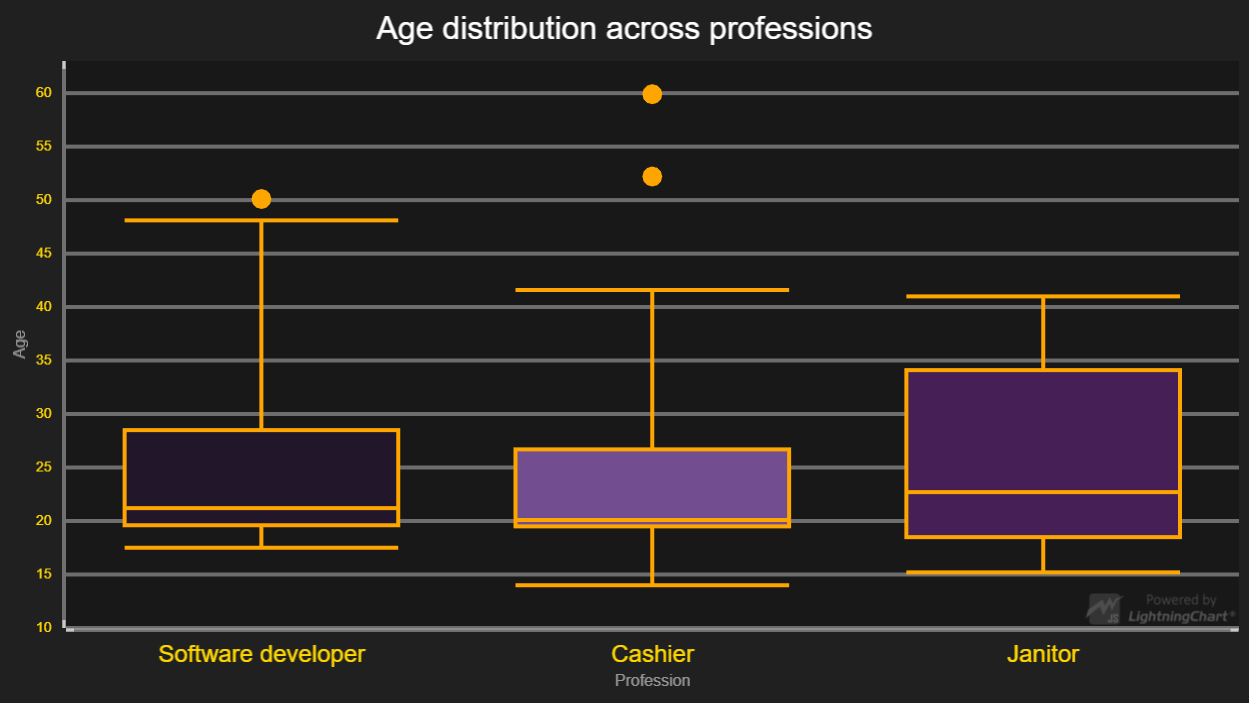
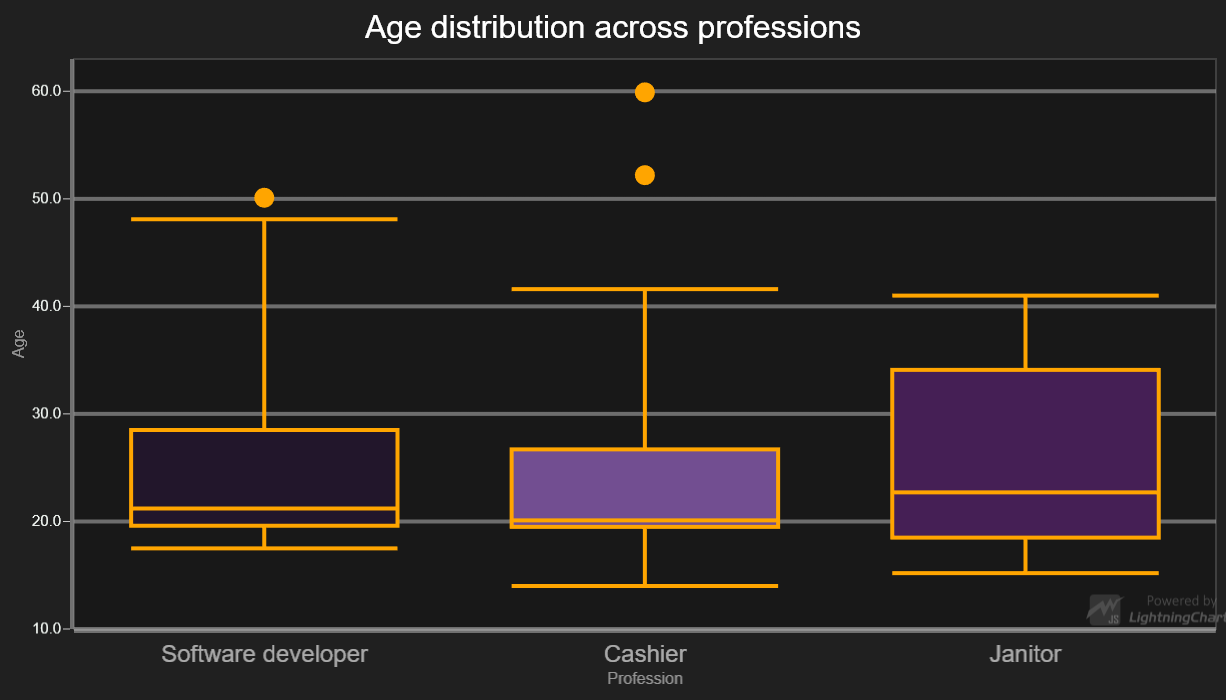
LCJS 2.0.0

diff --git a/src/index.js b/src/index.js
@@ -15,7 +15,8 @@ const {
     SolidLine,
     AxisTickStrategies,
     AutoCursorModes,
-    PointShape
+    PointShape,
+    Themes
 } = lcjs
 
 // ----- Define data for application -----
@@ -67,14 +68,14 @@ const allData = [
 ]
 
 // ----- Define styles for light theme -----
-const theme = { 
+const theme = {
     lightGrayFill: new SolidFill({ color: ColorHEX('#A0A0A0A0') }),
-    yellowFill: new SolidFill({color: ColorHEX('#ffa500')})
+    yellowFill: new SolidFill({ color: ColorHEX('#ffa500') })
 }
 
 // ----- Create a XY Chart -----
 const chart = lightningChart().ChartXY({
-    defaultAxisYTickStrategy: AxisTickStrategies.NumericWithUnits
+    // theme: Themes.dark
 })
     .setTitle('Age distribution across professions')
     .setTitleFont((font) => font
@@ -93,22 +94,34 @@ const axisX = chart.getDefaultAxisX()
     .setTitle('Profession')
     .setStrokeStyle(gridStrokeStyle)
     // No default ticks.
-    .setTickStyle(emptyTick)
+    .setTickStrategy(AxisTickStrategies.Empty)
     // Disable interactions.
     .setMouseInteractions(false)
 
+// Style the default Y Axis
 const axisY = chart.getDefaultAxisY()
     .setTitle('Age')
-    .setTickStyle((visibleTicks) => visibleTicks
-        .setTickStyle(emptyLine)
-        .setGridStrokeStyle(gridStrokeStyle)
-    )
     .setStrokeStyle(gridStrokeStyle)
     // Set Y-view manually.
     .setScrollStrategy(undefined)
     .setInterval(10, 63)
     // Disable interactions.
     .setMouseInteractions(false)
+
+// Style the Y Axis Ticks through the TickStrategy
+axisY
+    .setTickStrategy(
+        // Base TickStrategy to modify
+        AxisTickStrategies.Numeric,
+        // Modify the TickStrategy through a mutator
+        (tickStrategy) => tickStrategy
+            // Use custom grid stroke for the Major Ticks.
+            .setMajorTickStyle(tickStyle => tickStyle
+                .setGridStrokeStyle(gridStrokeStyle)
+            )
+            // Don't draw minor ticks.
+            .setMinorTickStyle(emptyTick)
+    )
 
 // ----- Map over per each data item -----
 const boxFigureStrokeStyle = new SolidLine({
@@ -176,6 +189,7 @@ allData.forEach((profession, i) => {
                 .setFillStyle(emptyFill)
                 .setStrokeStyle(emptyLine)
             )
+            .setTextFillStyle(new SolidFill({ color: ColorHEX('#aaaf') }))
             .setFont((font) => font
                 .setSize(24)
             )

diff --git a/README.md b/README.md
@@ -44,16 +44,16 @@ Here are the types of observations one can make from viewing a *Box And Whiskers
 
 ## API Links
 
-* XY cartesian chart: [ChartXY]
-* Axis tick strategies: [AxisTickStrategies]
-* AutoCursor modes: [AutoCursorModes]
-* Point shapes: [PointShape]
-* HEX Color factory: [ColorHEX]
-* Solid Fill style: [SolidFill]
-* Solid Line style: [SolidLine]
-* Empty Axis tick style: [emptyTick]
-* Empty Fill style: [emptyFill]
-* Empty Line style: [emptyLine]
+* [XY cartesian chart]
+* [Axis tick strategies]
+* [AutoCursor modes]
+* [Point shapes]
+* [HEX Color factory]
+* [Solid Fill style]
+* [Solid Line style]
+* [Empty Axis tick style]
+* [Empty Fill style]
+* [Empty Line style]
 
 
 ## Support
@@ -77,14 +77,14 @@ Direct developer email support can be purchased through a [Support Plan][4] or b
 © Arction Ltd 2009-2020. All rights reserved.
 
 
-[ChartXY]: https://www.arction.com/lightningchart-js-api-documentation/v1.3.0/classes/chartxy.html
-[AxisTickStrategies]: https://www.arction.com/lightningchart-js-api-documentation/v1.3.0/globals.html#axistickstrategies
-[AutoCursorModes]: https://www.arction.com/lightningchart-js-api-documentation/v1.3.0/enums/autocursormodes.html
-[PointShape]: https://www.arction.com/lightningchart-js-api-documentation/v1.3.0/enums/pointshape.html
-[ColorHEX]: https://www.arction.com/lightningchart-js-api-documentation/v1.3.0/globals.html#colorhex
-[SolidFill]: https://www.arction.com/lightningchart-js-api-documentation/v1.3.0/classes/solidfill.html
-[SolidLine]: https://www.arction.com/lightningchart-js-api-documentation/v1.3.0/classes/solidline.html
-[emptyTick]: https://www.arction.com/lightningchart-js-api-documentation/v1.3.0/globals.html#emptytick
-[emptyFill]: https://www.arction.com/lightningchart-js-api-documentation/v1.3.0/globals.html#emptyfill
-[emptyLine]: https://www.arction.com/lightningchart-js-api-documentation/v1.3.0/globals.html#emptyline
+[XY cartesian chart]: https://www.arction.com/lightningchart-js-api-documentation/v2.0.0/classes/chartxy.html
+[Axis tick strategies]: https://www.arction.com/lightningchart-js-api-documentation/v2.0.0/globals.html#axistickstrategies
+[AutoCursor modes]: https://www.arction.com/lightningchart-js-api-documentation/v2.0.0/enums/autocursormodes.html
+[Point shapes]: https://www.arction.com/lightningchart-js-api-documentation/v2.0.0/enums/pointshape.html
+[HEX Color factory]: https://www.arction.com/lightningchart-js-api-documentation/v2.0.0/globals.html#colorhex
+[Solid Fill style]: https://www.arction.com/lightningchart-js-api-documentation/v2.0.0/classes/solidfill.html
+[Solid Line style]: https://www.arction.com/lightningchart-js-api-documentation/v2.0.0/classes/solidline.html
+[Empty Axis tick style]: https://www.arction.com/lightningchart-js-api-documentation/v2.0.0/globals.html#emptytick
+[Empty Fill style]: https://www.arction.com/lightningchart-js-api-documentation/v2.0.0/globals.html#emptyfill
+[Empty Line style]: https://www.arction.com/lightningchart-js-api-documentation/v2.0.0/globals.html#emptyline
 
